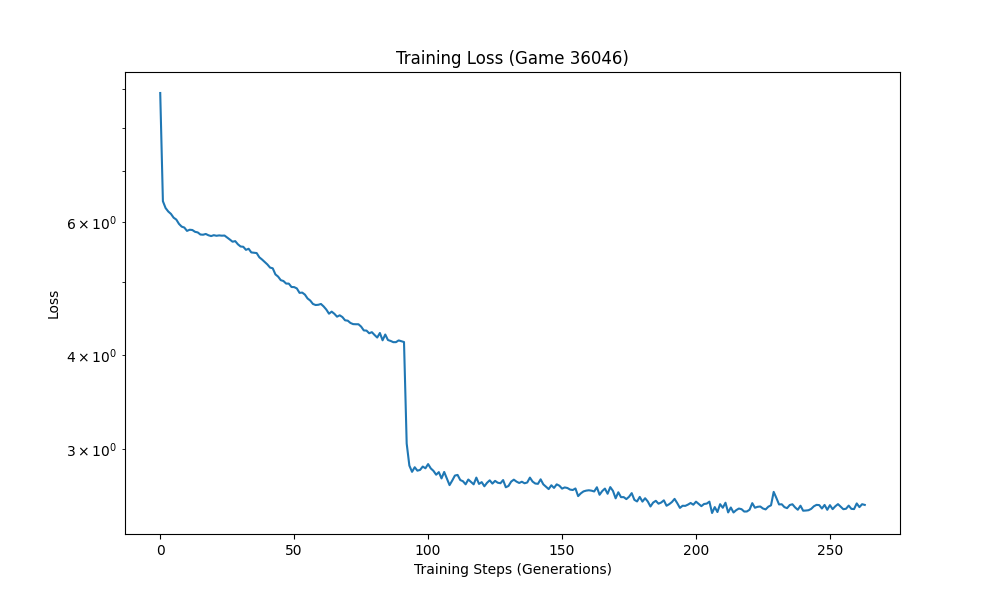
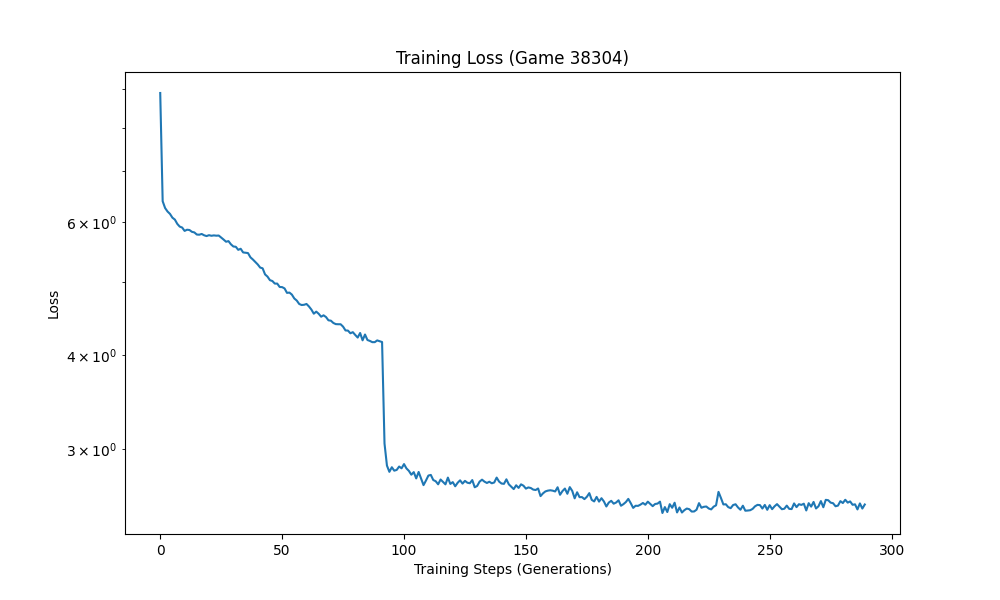
update train process

diff --git a/connect4/connect4_train_parallel.py b/connect4/connect4_train_parallel.py
@@ -96,5 +96,5 @@ if __name__ == '__main__':
     
     # Try to load existing checkpoint if any
     alphazero.load_checkpoint()
-    alphazero.replay_buffer.clear()
+    # alphazero.replay_buffer.clear()
     alphazero.learn()
